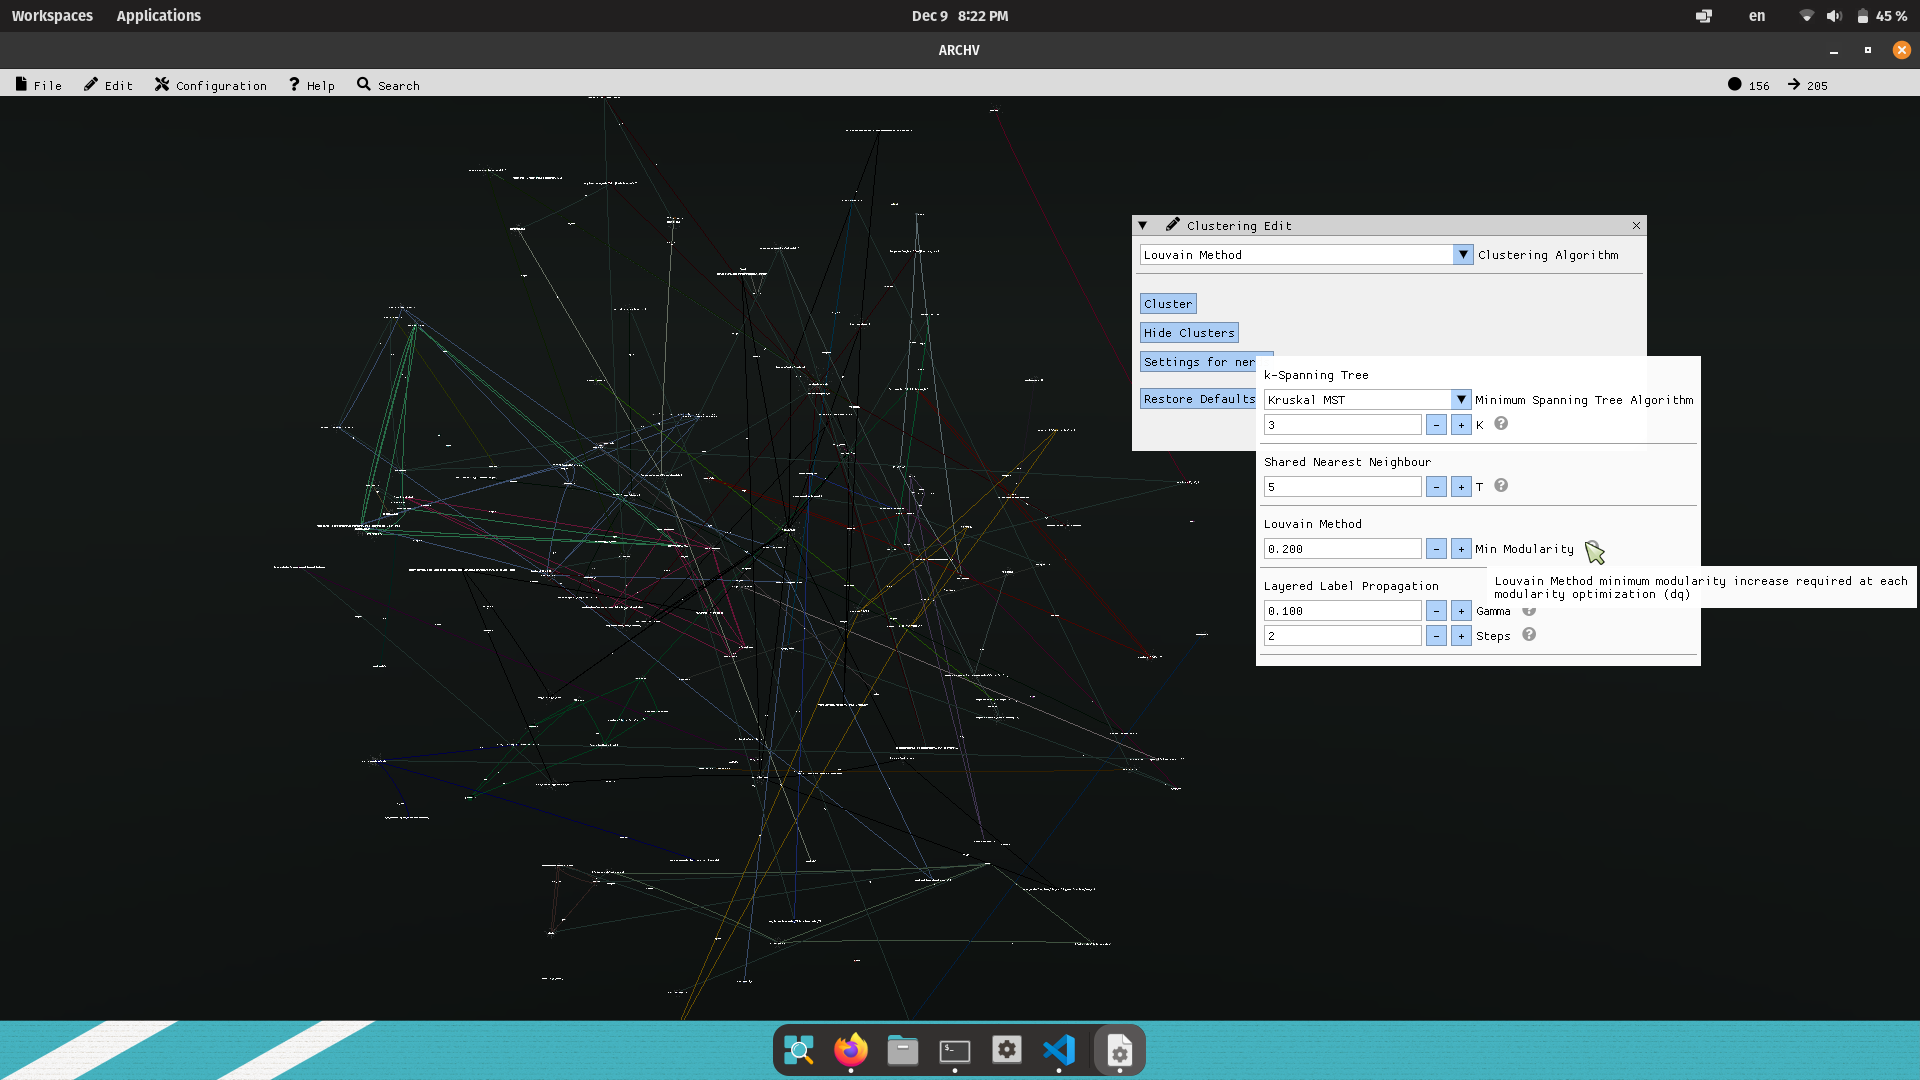
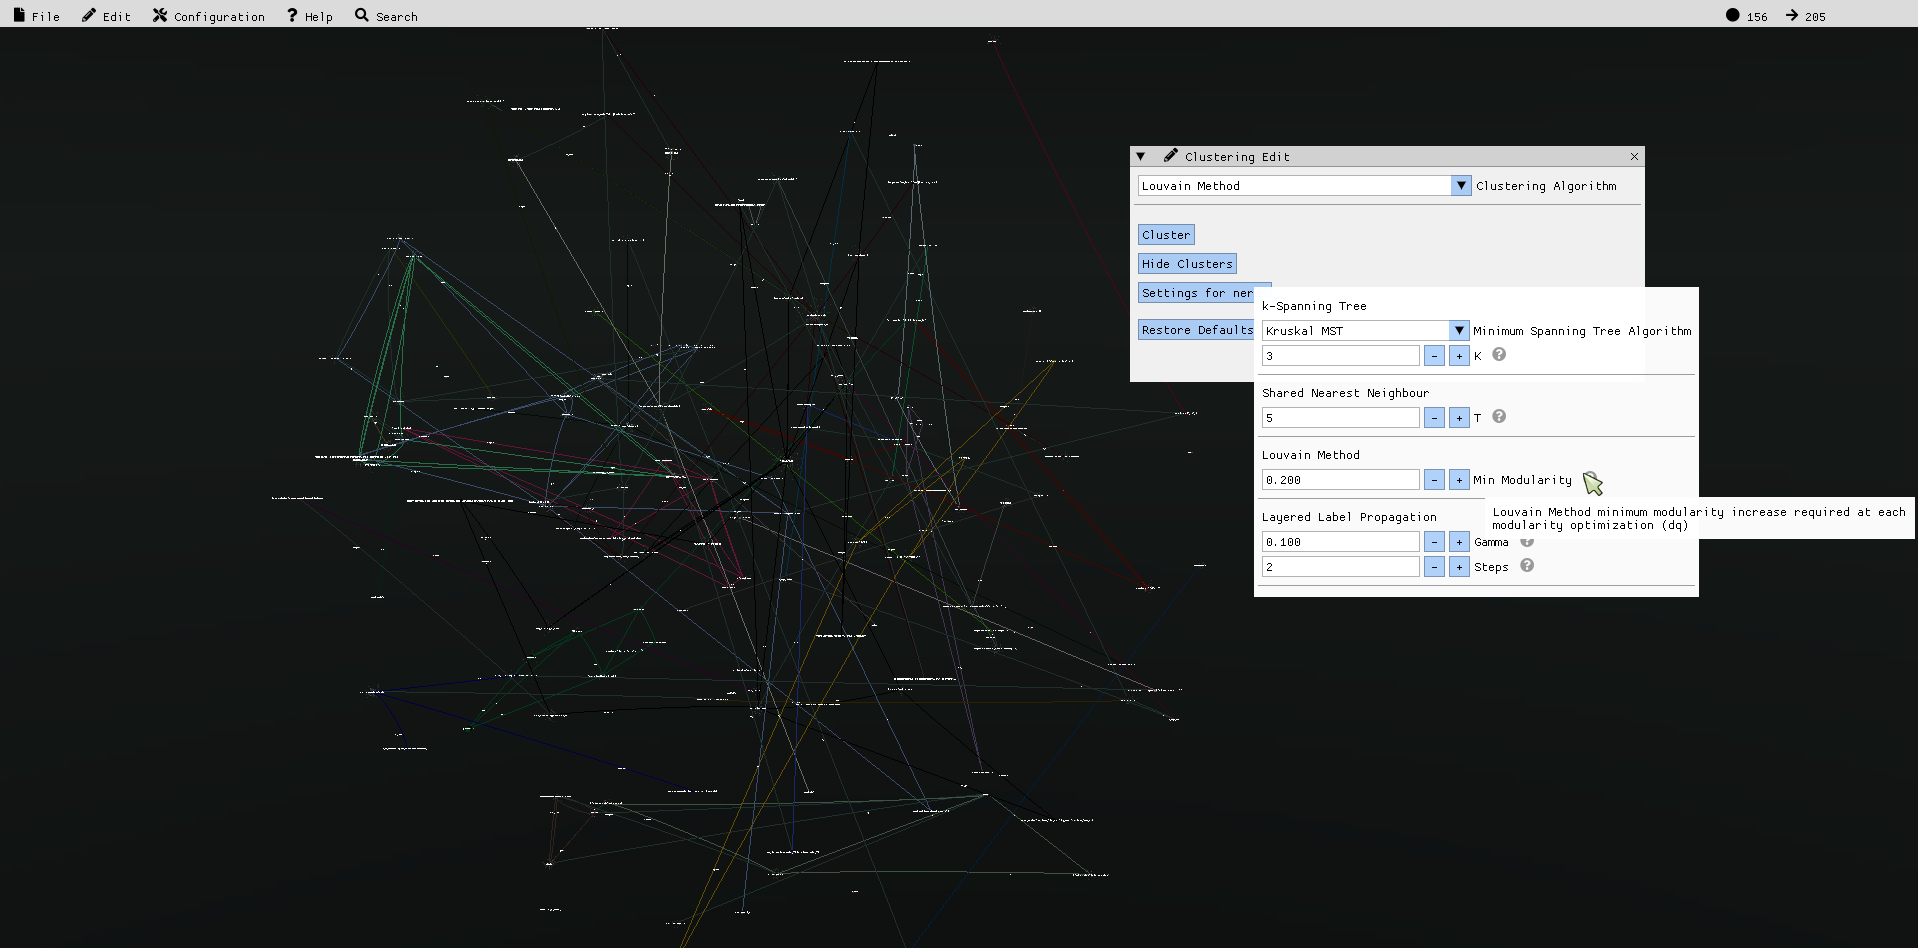
more features documented at readme

diff --git a/README.md b/README.md
@@ -25,6 +25,10 @@ tables, in the form of a 3D graph.
 | ![](data/screenshots/layout_n_topology_editing.png) | ![](data/screenshots/edge_weight_editing.png) |
 
 
+| Vertex dynamic scaling according to class metadata | Clustering
+|----|----|
+| ![](data/screenshots/vertex_by_property_scaling.png) | ![](data/screenshots/clustering.png) |
+
 ## Usage
 
 
